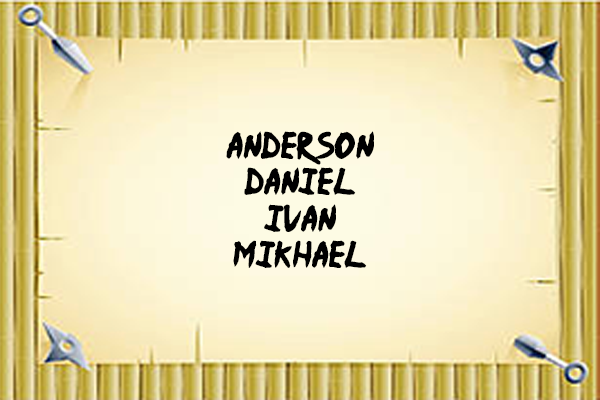
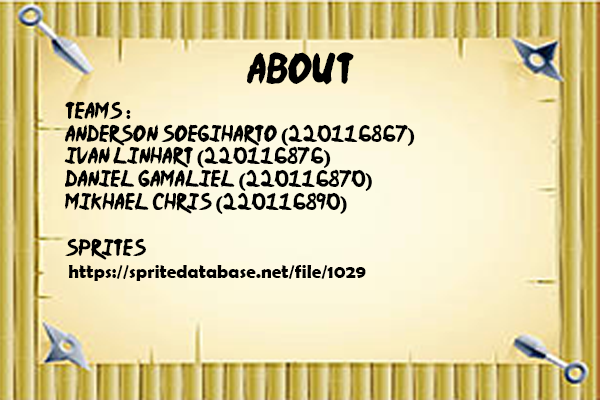
Main Menu Update 2
Change Button Design + About desc

Changed region(s): [[0.09, 0.24, 0.69, 0.72], [0.39, 0.12, 0.6, 0.21]]

diff --git a/src/istts/pbo/MenuPanel.java b/src/istts/pbo/MenuPanel.java
@@ -29,23 +29,23 @@ public class MenuPanel extends JPanel {
         lbSetting.setCursor(new Cursor(Cursor.HAND_CURSOR));
 
         lbNewGame = new JLabel();
-        lbNewGame.setBounds((SWIDTH-270)/2, 250, 300,120);
-        lbNewGame.setIcon(new ImageIcon("src/istts/pbo/res/newGame.png"));
+        lbNewGame.setBounds((SWIDTH-195)/2, 250, 225,90);
+        lbNewGame.setIcon(new ImageIcon("src/istts/pbo/res/scrollNew.png"));
         lbNewGame.setCursor(new Cursor(Cursor.HAND_CURSOR));
 
         lbLoadGame = new JLabel();
-        lbLoadGame.setBounds((SWIDTH-270)/2, 350, 300,120);
-        lbLoadGame.setIcon(new ImageIcon("src/istts/pbo/res/newGame.png"));
+        lbLoadGame.setBounds((SWIDTH-195)/2, 345, 225,90);
+        lbLoadGame.setIcon(new ImageIcon("src/istts/pbo/res/scrollLoad.png"));
         lbLoadGame.setCursor(new Cursor(Cursor.HAND_CURSOR));
 
         lbAbout = new JLabel();
-        lbAbout.setBounds((SWIDTH-270)/2, 450, 300,120);
-        lbAbout.setIcon(new ImageIcon("src/istts/pbo/res/newGame.png"));
+        lbAbout.setBounds((SWIDTH-195)/2, 440, 225,90);
+        lbAbout.setIcon(new ImageIcon("src/istts/pbo/res/scrollAbout.png"));
         lbAbout.setCursor(new Cursor(Cursor.HAND_CURSOR));
 
         lbExit = new JLabel();
-        lbExit.setBounds((SWIDTH-270)/2, 550, 300,120);
-        lbExit.setIcon(new ImageIcon("src/istts/pbo/res/newGame.png"));
+        lbExit.setBounds((SWIDTH-195)/2, 535, 225,90);
+        lbExit.setIcon(new ImageIcon("src/istts/pbo/res/scrollExit.png"));
         lbExit.setCursor(new Cursor(Cursor.HAND_CURSOR));
 
         lbAboutText = new JLabel();
